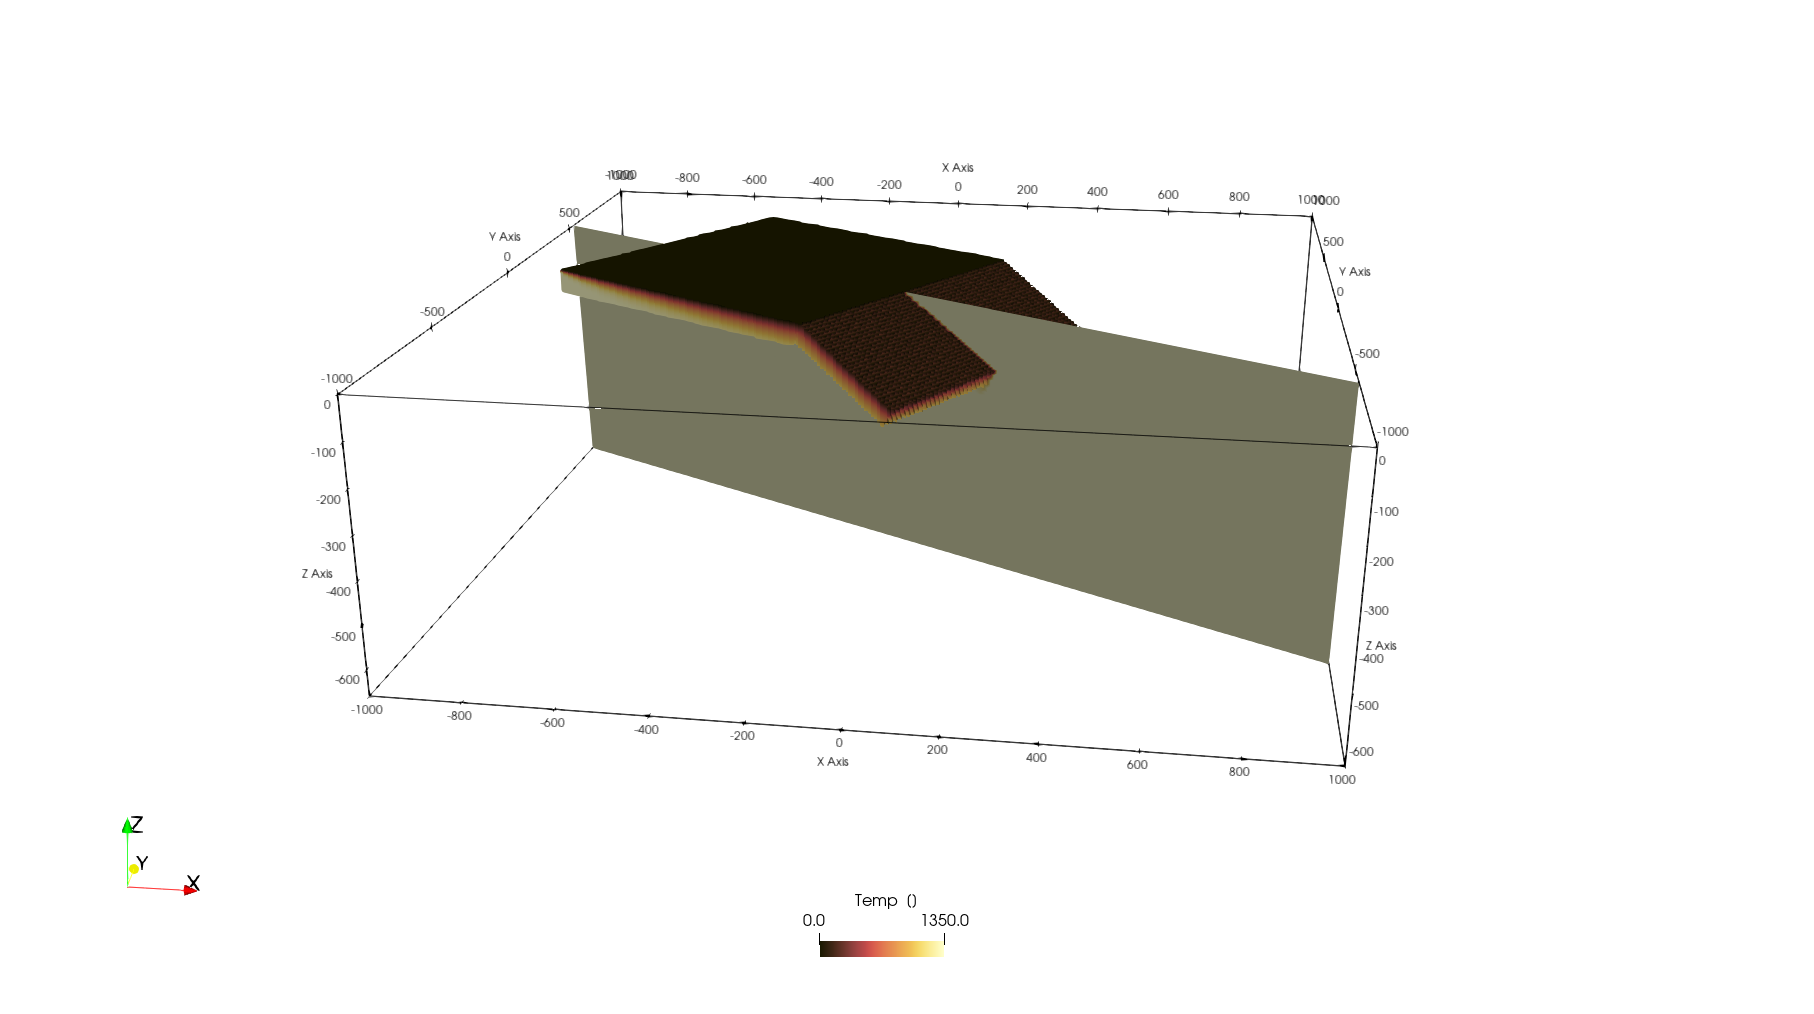
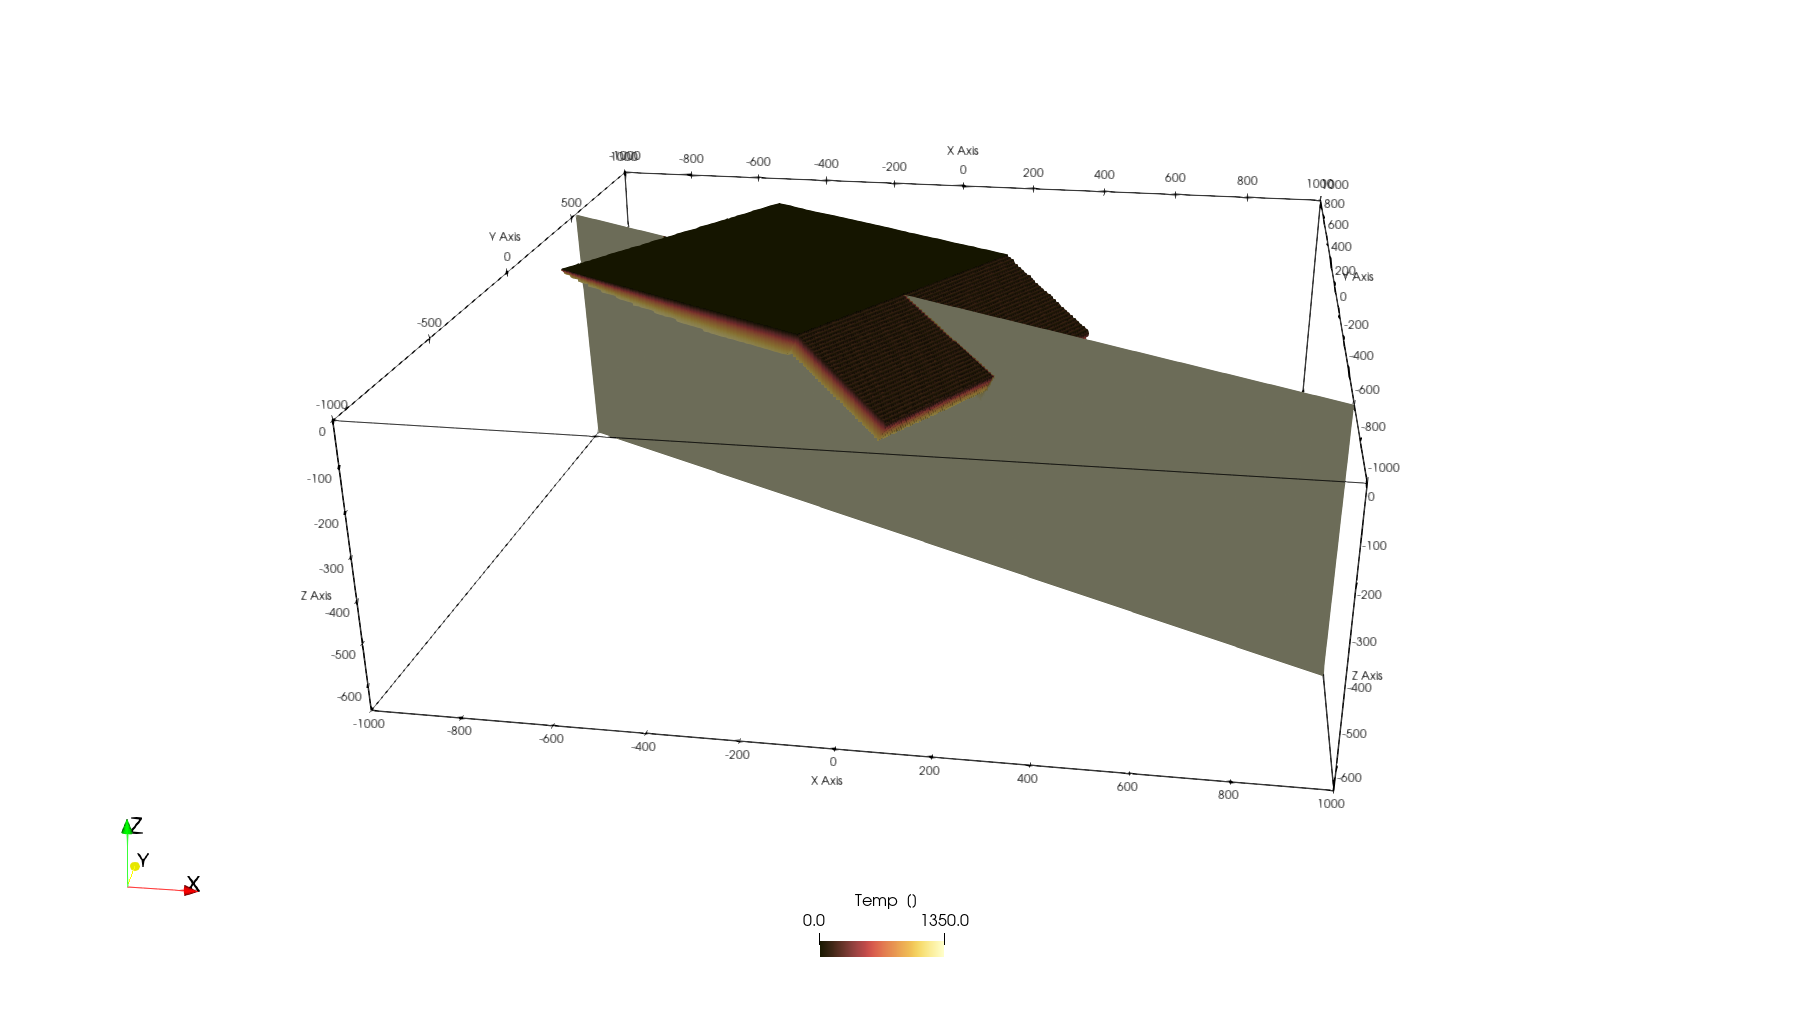
some fixes

diff --git a/docs/src/man/Tutorial_NumericalModel_3D.md b/docs/src/man/Tutorial_NumericalModel_3D.md
@@ -36,7 +36,7 @@ Temp = fill(1350.0, nx,ny,nz);
 #### Simple free subduction setup
 
 Much of the options are explained in the 2D tutorial, which can directly be transferred to 3D.
-Therefore, we will start with a simple subduction setup, which consists of a horizontal part that has a mid-oceanic ridge on one explained
+Therefore, we will start with a simple subduction setup, which consists of a horizontal part that has a mid-oceanic ridge and an inclined part that subducts.
 
 We use a lithospheric structure, which can be specified with the `LithosphericPhases` structure, where you can indicate `Layers` (the thickness of each lithospheric layer, starting from the top), and `Phases` the phases of the corresponding layers.
 Note that if the lowermost layer has the same phase as the mantle, you can define `Tlab` as the lithosphere-asthenosphere boundary which will automatically adjust the phase depending on temperature
